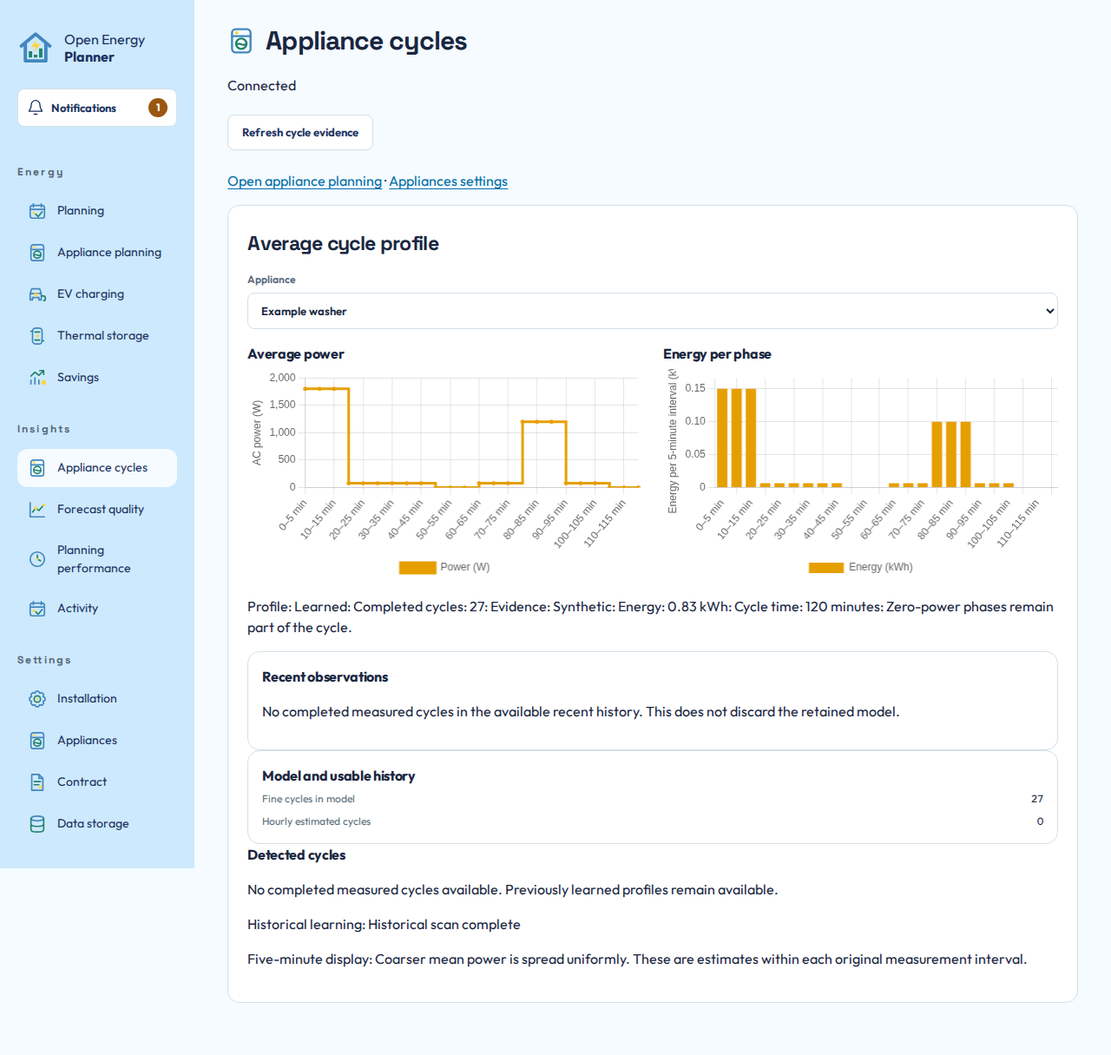
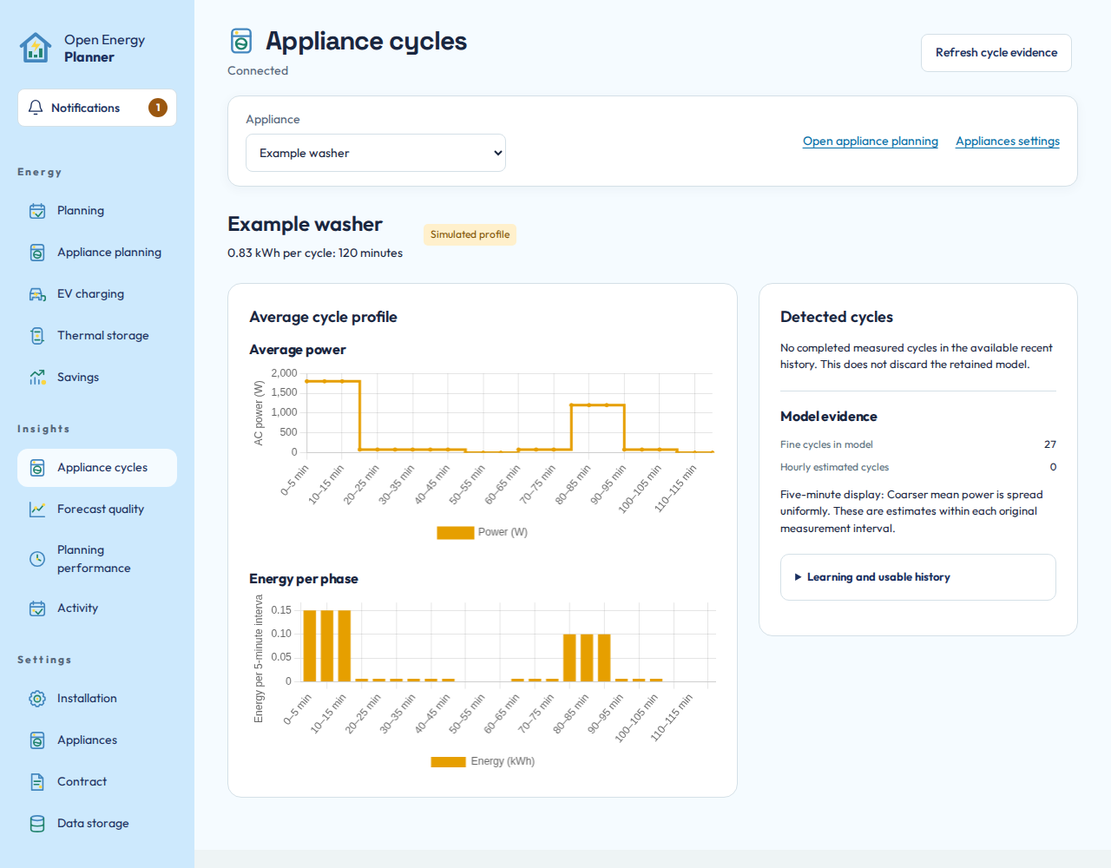
feat: align appliance cycle insights with page selection

diff --git a/src/open_energy_planner/web/public/appliance-cycles.js b/src/open_energy_planner/web/public/appliance-cycles.js
@@ -43,6 +43,9 @@ function profile(pageFocus) {
         }
     }
     const metrics = learned ? profileMetrics(learned) : null, powers = metrics?.powerW || [], labels = metrics?.labels || powers.map((_, index) => `${index * metrics.phaseMinutes}–${Math.min((index + 1) * metrics.phaseMinutes, metrics.minutes)} min`);
+    find("profile-title").textContent = device?.name || "Appliance";
+    find("profile-summary").textContent = metrics ? `${money(metrics.energyKwh)} kWh per cycle: ${metrics.minutes} minutes` : "Profile not ready";
+    find("profile-kind").textContent = !learned ? "Waiting for learning" : learned.evidence === "manual" ? "Manual estimate" : learned.evidence === "hourly_estimate" ? "Historical estimate" : learned.evidence === "synthetic" ? "Simulated profile" : device?.profile_basis === "observed" ? "Continuously followed profile" : "Provisional statistical profile";
     const profileKey = JSON.stringify([device?.entity_id, learned]);
     find("cycle-charts").hidden = !learned;
     if (profileKey !== renderedProfile) {
@@ -62,14 +65,16 @@ function profile(pageFocus) {
     const historyKey = JSON.stringify([device, historyPage, historyTimezone]);
     if (historyKey === renderedHistory) return;
     renderedHistory = historyKey;
-    const history = find("profile-history"), focused = document.activeElement;
+    const history = find("profile-history"), focused = document.activeElement, profileEvidence = find("profile-evidence");
+    const learningOpen = sameHistoryDevice && find("learning-history")?.open;
+    const learningFocused = sameHistoryDevice && focused?.closest("#learning-history");
     const opened = new Set(sameHistoryDevice ? [...history.querySelectorAll("details[open]")].map(detail => detail.dataset.cycleKey) : []);
     const focusedCycle = sameHistoryDevice ? focused?.closest("#detected-cycles details")?.dataset.cycleKey : null;
     const focusedButton = pageFocus || (sameHistoryDevice && history.contains(focused) && focused.tagName === "BUTTON" ? focused.id : null);
     history.replaceChildren();
-    history.append(node("h3", "Detected cycles"));
-    if (!cycles.length) history.append(node("p", "No completed measured cycles available. Previously learned profiles remain available."));
-    else {
+    history.append(node("h2", "Detected cycles"));
+    history.append(node("p", cycles.length ? `${cycles.length} completed measured cycles in the available recent history.` : "No completed measured cycles in the available recent history. This does not discard the retained model."));
+    if (cycles.length) {
         const pagination = node("nav"), previous = node("button", "Previous"), next = node("button", "Next"), page = node("span", `Page ${historyPage + 1}`);
         pagination.className = "activity-pagination"; pagination.setAttribute("aria-label", "Detected cycle pages"); page.setAttribute("role", "status");
         for (const button of [previous, next]) { button.type = "button"; button.className = "secondary"; button.setAttribute("aria-controls", "detected-cycles"); }
@@ -77,32 +82,37 @@ function profile(pageFocus) {
         previous.disabled = historyPage === 0; next.disabled = (historyPage + 1) * 25 >= cycles.length;
         previous.onclick = () => { historyPage--; profile("cycle-previous"); };
         next.onclick = () => { historyPage++; profile("cycle-next"); };
-        pagination.append(previous, page, next); history.append(pagination);
+        pagination.append(previous, page, next);
         const list = node("ul"); list.id = "detected-cycles"; list.className = "activity-list";
         for (const cycle of cycles.slice(historyPage * 25, (historyPage + 1) * 25)) {
             const minutes = Math.round((new Date(cycle.completed_at) - new Date(cycle.started_at)) / 60000);
-            const row = node("li"), detail = node("details"), summary = node("summary", `${when(cycle.started_at)}: ${minutes} minutes: ${money(cycle.energy_kwh)} kWh${cycle.synthetic ? ": Simulated" : ""}`);
+            const row = node("li"), detail = node("details"), summary = node("summary"), label = node("span");
+            label.className = "cycle-run-label";
+            label.append(node("span", `${when(cycle.started_at)}: `), node("small", `${minutes} minutes: ${money(cycle.energy_kwh)} kWh${cycle.synthetic ? ": Simulated" : ""}`));
+            summary.append(label);
             detail.dataset.cycleKey = JSON.stringify([cycle.started_at, cycle.completed_at]);
             detail.open = opened.has(detail.dataset.cycleKey);
             detail.className = "activity-row"; detail.append(summary, node("p", `Completed: ${when(cycle.completed_at)}`)); row.append(detail); list.append(row);
         }
-        history.append(list);
+        history.append(list, pagination);
     }
-    if (device?.learning_half_life_days) history.append(node("p", `Recency weighting: ${device.learning_half_life_days}-day half-life. A cycle ${device.learning_half_life_days} days older has half the weight. Fine timing refines hourly evidence. Each detected run counts once.`));
-    if (device?.hourly_synthetic) history.append(node("p", "Hourly evidence: Simulated data"));
+    const learning = node("details"); learning.id = "learning-history"; learning.open = Boolean(learningOpen);
+    learning.append(node("summary", "Learning and usable history"), profileEvidence);
+    if (device?.learning_half_life_days) learning.append(node("p", `Recency weighting: ${device.learning_half_life_days}-day half-life. A cycle ${device.learning_half_life_days} days older has half the weight. Fine timing refines hourly evidence. Each detected run counts once.`));
+    if (device?.hourly_synthetic) learning.append(node("p", "Hourly evidence: Simulated data"));
     const evidenceCard = node("div"), facts = node("dl"); evidenceCard.className = "evidence-card";
-    evidenceCard.append(node("h3", "Model and usable history"), facts);
+    evidenceCard.append(node("h3", "Model evidence"), facts);
     const addFact = (label, value) => facts.append(node("dt", label), node("dd", value));
     for (const [label, value] of [["Fine cycles in model", device?.learned_profile?.samples ?? 0], ["Hourly estimated cycles", device?.hourly_profile?.samples ?? 0]]) addFact(label, String(value));
-    for (const [label, value] of [["Fine cycle weight", device?.learning_weight], ["Hourly cycle weight", device?.hourly_weight]]) if (value != null) addFact(label, `${money(value)} at latest cycle`);
+    history.append(evidenceCard);
+    const historyFacts = node("dl"); learning.append(historyFacts);
+    const addHistoryFact = (label, value) => historyFacts.append(node("dt", label), node("dd", value));
+    for (const [label, value] of [["Fine cycle weight", device?.learning_weight], ["Hourly cycle weight", device?.hourly_weight]]) if (value != null) addHistoryFact(label, `${money(value)} at latest cycle`);
     const recent = device?.learning_history;
     if (recent?.start) {
-        addFact("Recent fine history received", `${when(recent.start)} to ${when(recent.end)}`);
-        addFact("Usable fine intervals", `${recent.usable_intervals} of ${recent.expected_intervals}: ${percentage(recent.expected_intervals ? 100 * recent.usable_intervals / recent.expected_intervals : null)}`);
+        addHistoryFact("Recent fine history received", `${when(recent.start)} to ${when(recent.end)}`);
+        addHistoryFact("Usable fine intervals", `${recent.usable_intervals} of ${recent.expected_intervals}: ${percentage(recent.expected_intervals ? 100 * recent.usable_intervals / recent.expected_intervals : null)}`);
     }
-    const observation = node("div"); observation.className = "evidence-card";
-    observation.append(node("h3", "Recent observations"), node("p", device?.recent_cycles?.length ? `${device.recent_cycles.length} completed measured cycles in the available recent history.` : "No completed measured cycles in the available recent history. This does not discard the retained model."));
-    history.prepend(observation, evidenceCard);
     if (metrics?.variable) history.append(node("p", "Recorded state timing: This learned profile preserves actual irregular phase durations. It does not imply a fixed measurement frequency."));
     if (device?.planning_issue) history.append(node("p", device.planning_issue));
     if (learned && learned.evidence !== "manual" && learned.samples === 1) history.append(node("p", "Provisional profile: One complete cycle. Further cycles refine this estimate."));
@@ -111,27 +121,28 @@ function profile(pageFocus) {
     const run = device?.observed_run;
     if (run && !["complete", "idle"].includes(run.status)) history.append(node("p", `Measured activity: ${run.status === "observed" ? "Cycle in progress" : "Execution uncertain"}: Started ${when(run.started_at)}: ${money(run.energy_kwh)} kWh measured. Pending starts are blocked. This is separate from execution confirmation.`));
     const fine = device?.fine_import;
-    if (fine) history.append(node("p", `Fine history: ${optionLabel(fine.phase)}${fine.cursor ? `: Examined back to ${when(fine.cursor)}` : ""}`));
+    if (fine) learning.append(node("p", `Fine history: ${optionLabel(fine.phase)}${fine.cursor ? `: Examined back to ${when(fine.cursor)}` : ""}`));
     const scan = device?.history_import, status = node("p"); status.setAttribute("role", "status");
     const phases = {discovering: "Discovering available hourly history…", processing: "Processing hourly history", complete: "Historical scan complete", unavailable: "No paired hourly energy and power history available", failed: "History processing interrupted. Retained progress will resume automatically"};
     status.textContent = `Historical learning: ${phases[scan?.phase] || (device?.power_entity ? "Waiting for background processing" : "Power sensor required")}`;
-    history.append(status);
+    learning.append(status);
     if (scan?.start && scan?.end) {
         const total = Date.parse(scan.end) - Date.parse(scan.start), processed = Date.parse(scan.cursor) - Date.parse(scan.start);
-        history.append(node("p", `Examined through ${when(scan.cursor)}: Target: ${when(scan.start)} to ${when(scan.end)}`));
+        learning.append(node("p", `Examined through ${when(scan.cursor)}: Target: ${when(scan.start)} to ${when(scan.end)}`));
         if (scan.phase === "processing") {
             const progress = node("progress"); progress.max = total; progress.value = processed; progress.setAttribute("aria-label", "Hourly history progress");
-            history.append(progress, node("span", ` ${percentage(100 * processed / total)}`));
+            learning.append(progress, node("span", ` ${percentage(100 * processed / total)}`));
         }
-        if (scan.expected_intervals) history.append(node("p", `Usable hourly intervals: ${scan.usable_intervals} of ${scan.expected_intervals}: ${percentage(100 * scan.usable_intervals / scan.expected_intervals)}`));
+        if (scan.expected_intervals) learning.append(node("p", `Usable hourly intervals: ${scan.usable_intervals} of ${scan.expected_intervals}: ${percentage(100 * scan.usable_intervals / scan.expected_intervals)}`));
     }
-    if (metrics?.sourcePhaseMinutes > metrics.phaseMinutes) history.append(node("p", learned?.evidence === "hourly_estimate" ? "Five-minute display: Hourly power is spread uniformly. Each energy bar estimates one twelfth of its hour. Fine measurements refine this shape later." : "Five-minute display: Coarser mean power is spread uniformly. These are estimates within each original measurement interval."));
+    if (metrics && metrics.sourcePhaseMinutes > metrics.phaseMinutes) history.append(node("p", learned?.evidence === "hourly_estimate" ? "Five-minute display: Hourly power is spread uniformly. Each energy bar estimates one twelfth of its hour. Fine measurements refine this shape later." : "Five-minute display: Coarser mean power is spread uniformly. These are estimates within each original measurement interval."));
     if (learned?.evidence === "hourly_estimate") history.append(node("p", "Provisional planning profile: Hourly history cannot establish exact start times, separate runs within one hour or short power peaks. The first complete fine cycle refines this estimate automatically."));
-    if (focusedCycle || focusedButton) {
-        const target = focusedCycle ? [...history.querySelectorAll("details")].find(detail => detail.dataset.cycleKey === focusedCycle)?.querySelector("summary") : find(focusedButton);
-        const fallback = history.querySelector("button:not(:disabled)") || history.querySelector("h3");
+    history.append(learning);
+    if (focusedCycle || focusedButton || learningFocused) {
+        const target = learningFocused ? learning.querySelector("summary") : focusedCycle ? [...history.querySelectorAll("details")].find(detail => detail.dataset.cycleKey === focusedCycle)?.querySelector("summary") : find(focusedButton);
+        const fallback = history.querySelector("button:not(:disabled)") || history.querySelector("h2");
         const restored = target && !target.disabled ? target : fallback;
-        if (restored) { if (restored.tagName === "H3") restored.tabIndex = -1; restored.focus({preventScroll: true}); }
+        if (restored) { if (restored.tagName === "H2") restored.tabIndex = -1; restored.focus({preventScroll: true}); }
     }
 }
 /** Preserve the selected profile and selector focus when only read-only evidence changes. */

diff --git a/src/open_energy_planner/web/pages/appliance-cycles.html b/src/open_energy_planner/web/pages/appliance-cycles.html
@@ -1,6 +1,9 @@
 <!doctype html>
-<html lang="en"><head><meta charset="utf-8"><meta name="viewport" content="width=device-width,initial-scale=1"><meta name="oep-api-base" content="__OEP_BASE__"><title>Open Energy Planner: Appliance cycles</title><link rel="stylesheet" href="/setup/style.css"><link rel="stylesheet" href="/setup/workspace.css"><script src="/setup/chart.umd.min.js"></script><script type="module" src="/setup/appliance-cycles.js"></script><link rel="icon" type="image/svg+xml" href="/setup/icons/app.svg"><link rel="stylesheet" href="/setup/activity.css"></head>
-<body class="workspace"><!-- OEP_NAVIGATION -->
-<main class="workspace-main"><header class="page-header"><div><h1 class="page-heading"><img class="page-icon" src="/setup/icons/appliances.svg" alt="" width="32" height="32"><span>Appliance cycles</span></h1></div></header><form id="connect"><label>Installation API token<input id="token" type="password" autocomplete="off"></label><button disabled>Connect</button></form><p id="status" role="status"></p><button id="refresh" type="button" class="secondary">Refresh cycle evidence</button>
-<p><a href="/appliances">Open appliance planning</a> · <a href="/appliance-settings">Appliances settings</a></p>
-<section id="cycle-empty" class="chart-card" hidden><h2>No followed cycle appliances</h2><p>Select a consumption appliance in <a href="/appliance-settings">Appliances settings</a> to inspect its learning evidence. Shifting permission is not required.</p></section><section id="appliance-profiles" class="chart-card" hidden><h2>Average cycle profile</h2><label>Appliance<select id="profile-device"></select></label><div class="chart-grid" id="cycle-charts"><div><h3>Average power</h3><div class="chart-wrap"><canvas id="cycle-chart" role="img" aria-label="Average appliance cycle power by elapsed phase"></canvas></div></div><div><h3>Energy per phase</h3><div class="chart-wrap"><canvas id="cycle-energy-chart" role="img" aria-label="Learned appliance energy consumption per phase"></canvas></div></div></div><details id="recorded-cycle" hidden><summary>Recorded cycle measurements</summary><p id="recorded-cycle-status"></p><div class="chart-grid"><div><h4>Recorded power states</h4><p id="recorded-power-unavailable" hidden>Recorded power states are unavailable.</p><div class="chart-wrap"><canvas id="recorded-power-chart" role="img" aria-label="Actual recorded power states at original event times"></canvas></div></div><div><h4>Recorded energy counter</h4><p id="recorded-energy-unavailable" hidden>Recorded energy counter states are unavailable.</p><div class="chart-wrap"><canvas id="recorded-energy-chart" role="img" aria-label="Recorded cumulative energy changes at original event times"></canvas></div></div></div></details><p id="profile-evidence"></p><div id="profile-history"></div></section></main></body></html>
+<html lang="en"><head><meta charset="utf-8"><meta name="viewport" content="width=device-width,initial-scale=1"><meta name="oep-api-base" content="__OEP_BASE__"><title>Open Energy Planner: Appliance cycles</title><link rel="stylesheet" href="/setup/style.css"><link rel="stylesheet" href="/setup/workspace.css"><script src="/setup/chart.umd.min.js"></script><script type="module" src="/setup/appliance-cycles.js"></script><link rel="icon" type="image/svg+xml" href="/setup/icons/app.svg"><link rel="stylesheet" href="/setup/activity.css"><link rel="stylesheet" href="/setup/settings-layout.css"><link rel="stylesheet" href="/setup/appliance-cycles.css"></head>
+<body class="workspace settings-workspace cycles-workspace"><!-- OEP_NAVIGATION -->
+<main class="workspace-main"><header class="page-header"><div><h1 class="page-heading"><img class="page-icon" src="/setup/icons/appliances.svg" alt="" width="32" height="32"><span>Appliance cycles</span></h1><p id="status" role="status"></p></div><button id="refresh" type="button" class="secondary">Refresh cycle evidence</button></header><form id="connect"><label>Installation API token<input id="token" type="password" autocomplete="off"></label><button disabled>Connect</button></form>
+
+<section id="cycle-empty" class="chart-card" hidden><h2>No followed cycle appliances</h2><p>Select a consumption appliance in <a href="/appliance-settings">Appliances settings</a> to inspect its learning evidence. Shifting permission is not required.</p></section><div id="appliance-profiles" hidden>
+<section class="settings-toolbar" aria-label="Cycle appliance selection"><label for="profile-device">Appliance<select id="profile-device" aria-label="Appliance"></select></label><nav class="settings-actions" aria-label="Appliance actions"><a href="/appliances">Open appliance planning</a><a href="/appliance-settings">Appliances settings</a></nav></section>
+<header class="cycle-profile-header"><div><h2 id="profile-title"></h2><p id="profile-summary"></p></div><span id="profile-kind" class="settings-tag"></span></header>
+<div class="cycle-columns"><section class="chart-card" aria-labelledby="profile-heading"><h2 id="profile-heading">Average cycle profile</h2><div class="chart-grid" id="cycle-charts"><div><h3>Average power</h3><div class="chart-wrap"><canvas id="cycle-chart" role="img" aria-label="Average appliance cycle power by elapsed phase"></canvas></div></div><div><h3>Energy per phase</h3><div class="chart-wrap"><canvas id="cycle-energy-chart" role="img" aria-label="Learned appliance energy consumption per phase"></canvas></div></div></div><details id="recorded-cycle" hidden><summary>Recorded cycle measurements</summary><p id="recorded-cycle-status"></p><div class="chart-grid"><div><h4>Recorded power states</h4><p id="recorded-power-unavailable" hidden>Recorded power states are unavailable.</p><div class="chart-wrap"><canvas id="recorded-power-chart" role="img" aria-label="Actual recorded power states at original event times"></canvas></div></div><div><h4>Recorded energy counter</h4><p id="recorded-energy-unavailable" hidden>Recorded energy counter states are unavailable.</p><div class="chart-wrap"><canvas id="recorded-energy-chart" role="img" aria-label="Recorded cumulative energy changes at original event times"></canvas></div></div></div></details></section><aside id="profile-history" class="chart-card" aria-label="Detected cycles and learning evidence"><p id="profile-evidence"></p></aside></div></div></main></body></html>

diff --git a/src/open_energy_planner/web/public/appliance-cycles.css b/src/open_energy_planner/web/public/appliance-cycles.css
@@ -1,0 +1,32 @@
+/* The selected appliance owns the whole insight page, independently of its charts. */
+.cycles-workspace .workspace-main { max-width:1500px; }
+.cycles-workspace .settings-toolbar { position:static; align-items:center; }
+.cycles-workspace .settings-toolbar > label { width:300px; max-width:100%; }
+.cycles-workspace .settings-actions { gap:12px 20px; margin:0; padding:0; border:0; }
+.cycle-profile-header { display:flex; flex-wrap:wrap; align-items:center; gap:12px 24px; margin:0 0 24px; }
+.cycles-workspace .cycle-profile-header h2 { font-size:24px; margin:0; }
+.cycle-profile-header p { margin:6px 0 0; }
+.cycle-profile-header .settings-tag { background:#fff0cc; color:#805300; }
+.cycle-columns { display:grid; grid-template-columns:minmax(0,1.6fr) minmax(320px,1fr); align-items:start; gap:var(--oep-panel-gap); }
+.cycle-columns > * { min-width:0; }
+.cycles-workspace #cycle-charts,.cycles-workspace #recorded-cycle .chart-grid { grid-template-columns:minmax(0,1fr); }
+.cycles-workspace .chart-wrap { height:210px; }
+.cycles-workspace .cycle-columns > .chart-card > h2 { margin-top:0; }
+.cycles-workspace #profile-history { overflow-wrap:anywhere; }
+.cycles-workspace #profile-history .evidence-card { border:0; border-top:1px solid var(--oep-line); border-radius:0; padding:16px 0 0; margin-top:20px; }
+.cycles-workspace #profile-history dl { display:grid; grid-template-columns:minmax(0,1fr) auto; gap:8px 16px; margin:12px 0; }
+.cycles-workspace #profile-history dd { margin:0; text-align:right; }
+.cycles-workspace #profile-history p { font-size:13px; }
+.cycles-workspace #detected-cycles summary { display:grid; grid-template-columns:minmax(0,1fr) auto; }
+.cycle-run-label { display:grid; gap:4px; }
+.cycle-run-label small { color:var(--oep-muted); }
+.cycles-workspace #learning-history { margin-top:20px; }
+@media(max-width:1100px) {
+    .cycle-columns { grid-template-columns:minmax(0,1fr); }
+}
+@media(max-width:640px) {
+    .cycles-workspace .page-header { flex-wrap:wrap; }
+    .cycles-workspace .settings-toolbar > label { width:100%; }
+    .cycles-workspace .settings-actions { justify-content:flex-start; }
+    .cycles-workspace .chart-wrap { height:230px; }
+}

diff --git a/tests/frontend/browser/test_appliance_cycles.py b/tests/frontend/browser/test_appliance_cycles.py
@@ -210,6 +210,66 @@ def test_poll_updates_evidence_without_closing_or_defocusing_cycle(review_eviden
 
 
 @pytest.mark.parametrize(
+    "app_page", [{"width": 1440, "height": 1024}, {"width": 390, "height": 844}], indirect=True
+)
+def test_page_selection_controls_profile_and_right_hand_history(review_evidence):
+    """Page selection stays above stacked charts and responsive history preserves open learning on refresh."""
+    page, devices, _ = review_evidence
+    expect(page.locator("#profile-title")).to_have_text("Washer")
+    expect(page.locator("#profile-summary")).to_have_text("0.30 kWh per cycle: 45 minutes")
+    selector = page.get_by_label("Appliance", exact=True).bounding_box()
+    profile = page.get_by_role("heading", name="Average cycle profile", exact=True).bounding_box()
+    history = page.get_by_role("heading", name="Detected cycles", exact=True).bounding_box()
+    power = page.locator("#cycle-chart").bounding_box()
+    energy = page.locator("#cycle-energy-chart").bounding_box()
+    assert selector["y"] + selector["height"] <= profile["y"]
+    assert energy["y"] >= power["y"] + power["height"]
+    if page.viewport_size["width"] > 1100:
+        assert history["x"] > power["x"] + power["width"]
+        assert abs(history["y"] - profile["y"]) < 2
+    else:
+        assert history["y"] > energy["y"] + energy["height"]
+    assert page.evaluate("document.documentElement.scrollWidth <= innerWidth")
+    learning = page.locator("#learning-history")
+    expect(learning).not_to_have_attribute("open", "")
+    learning.locator("summary").click()
+    chart_identity = page.locator("#cycle-chart").evaluate("canvas => Chart.getChart(canvas).id")
+    devices[0]["learning_weight"] = 12.5
+    with page.expect_response("**/v1/appliances"):
+        page.clock.fast_forward(10000)
+    expect(learning).to_have_attribute("open", "")
+    expect(learning.locator("summary")).to_be_focused()
+    expect(learning).to_contain_text("12.50 at latest cycle")
+    assert (
+        page.locator("#cycle-chart").evaluate("canvas => Chart.getChart(canvas).id")
+        == chart_identity
+    )
+    page.get_by_label("Appliance", exact=True).select_option("sensor.dryer")
+    expect(page.locator("#profile-title")).to_have_text("Dryer")
+    expect(learning).not_to_have_attribute("open", "")
+    expect(learning).not_to_contain_text("12.50 at latest cycle")
+
+
+@pytest.mark.parametrize(
+    "app_page", [{"width": 1280, "height": 1000}, {"width": 390, "height": 844}], indirect=True
+)
+def test_waiting_profile_keeps_learning_and_recorded_evidence_available(review_evidence):
+    """A device without a learned profile still completes rendering and exposes its retained evidence."""
+    page, devices, _ = review_evidence
+    devices[0]["profile"] = None
+    devices[0]["history_import"] = {"phase": "processing"}
+    page.get_by_role("button", name="Refresh cycle evidence", exact=True).click()
+    expect(page.locator("#profile-kind")).to_have_text("Waiting for learning")
+    expect(page.locator("#cycle-charts")).to_be_hidden()
+    learning = page.get_by_text("Learning and usable history", exact=True)
+    expect(learning).to_be_visible()
+    learning.click()
+    expect(page.locator("#learning-history")).to_contain_text("Processing hourly history")
+    expect(page.locator("#status")).to_have_text("Connected")
+    expect(page.get_by_text("Recorded cycle measurements", exact=True)).to_be_visible()
+
+
+@pytest.mark.parametrize(
     "app_page", [{"width": 1280, "height": 1000}, {"width": 390, "height": 844}], indirect=True
 )
 def test_keyboard_paging_keeps_direction_until_boundary(review_evidence):

diff --git a/tests/frontend/browser/test_appliance_settings.py b/tests/frontend/browser/test_appliance_settings.py
@@ -266,6 +266,7 @@ def test_historical_learning_progress_preserves_drafts_and_concurrent_write_guar
     page.get_by_role("button", name="Connect", exact=True).click()
     history = page.locator("#profile-history")
     expect(history).to_contain_text("Processing hourly history")
+    page.get_by_text("Learning and usable history", exact=True).click()
     expect(history).to_contain_text("0.0%")
     expect(page.locator("#cycle-charts")).to_be_hidden()
     expect(page.get_by_role("button", name="Appliance is ready", exact=True)).to_have_count(0)
@@ -935,11 +936,7 @@ def test_appliance_profile_task_request_and_unknown_execution_are_visible(app_pa
     assert sum(energy) == pytest.approx(0.83)
     power_bounds = page.locator("#cycle-chart").bounding_box()
     energy_bounds = page.locator("#cycle-energy-chart").bounding_box()
-    if page.viewport_size["width"] > 1000:
-        assert energy_bounds["x"] > power_bounds["x"]
-        assert energy_bounds["y"] == power_bounds["y"]
-    else:
-        assert energy_bounds["y"] >= power_bounds["y"] + power_bounds["height"]
+    assert energy_bounds["y"] >= power_bounds["y"] + power_bounds["height"]
     assert page.evaluate("""() => {
         const chart = Chart.getChart(document.getElementById('cycle-chart'));
         return chart.config.type === 'line' && chart.data.datasets[0].stepped === true;

diff --git a/tests/frontend/browser/test_appliance_profile_quality.py b/tests/frontend/browser/test_appliance_profile_quality.py
@@ -21,6 +21,15 @@ def test_profile_quality_explains_full_cycle_on_desktop_and_mobile(app_page, app
     """Actual charts show the complete wash and pause with honest provenance after storage restart."""
     page, url = app_page
     connect_profile(page, url)
+    expect(page.locator("#cycle-charts")).to_be_visible()
+    page.wait_for_function("""() => ['cycle-chart', 'cycle-energy-chart'].every(id => {
+        const chart = Chart.getChart(id), meta = chart?.getDatasetMeta(0);
+        return meta?.data.length && meta.data.every((element, index) => Math.abs(element.y - chart.scales.y.getPixelForValue(meta._parsed[index].y)) < .1);
+    })""")
+    page.screenshot(
+        path=f"results/ci/cycle-layout-{'statistics' if statistical else 'observed'}-{page.viewport_size['width']}.png",
+        full_page=True,
+    )
     page.get_by_text("Recorded cycle measurements", exact=True).click()
     expect(page.locator("#profile-history")).to_contain_text(
         "Provisional statistical profile" if statistical else "Continuously followed profile"

diff --git a/docs/users/appliances.md b/docs/users/appliances.md
@@ -33,15 +33,21 @@ cycle must be resolved before removal is permitted.
 
 ## Understand learned appliance cycles
 
-Open **Insights > Appliance cycles** and choose an appliance. **View cycle insights**
+Open **Insights > Appliance cycles** and choose an appliance in the toolbar above
+the page content. This selection controls both the profile and its history. **View cycle insights**
 on its planning card selects that same appliance directly. Followed cycle appliances
 remain available here when complete-cycle shifting is disabled. EV and thermal
 equipment use their own workspaces.
 
-The average power and energy charts describe the retained planning model.
-**Recent observations** describes the available measured cycles. No recent
-complete cycle does not mean the existing model has been lost. **Model and usable
-history** shows the evidence retained in the model and the recent import coverage.
+The selected appliance name, typical energy, duration and profile provenance appear
+above the charts. **Average power** and **Energy per phase** describe the retained
+planning model. They are stacked on the left on wide screens, with **Detected
+cycles** on the right. On smaller screens, cycle history follows the charts.
+No recent complete cycle does not mean the existing model has been lost.
+**Model evidence** distinguishes fine cycles from hourly estimates. Open **Learning
+and usable history** for processing progress, import coverage and recency weights.
+These details start collapsed and stay open during refreshes for the same appliance.
+Profile limitations and uncertain measured activity remain visible outside them.
 
 [![A retained learned profile remains usable when no complete cycles are present in recent observations.](../assets/appliance-cycles.png)](../assets/appliance-cycles.png)
 
